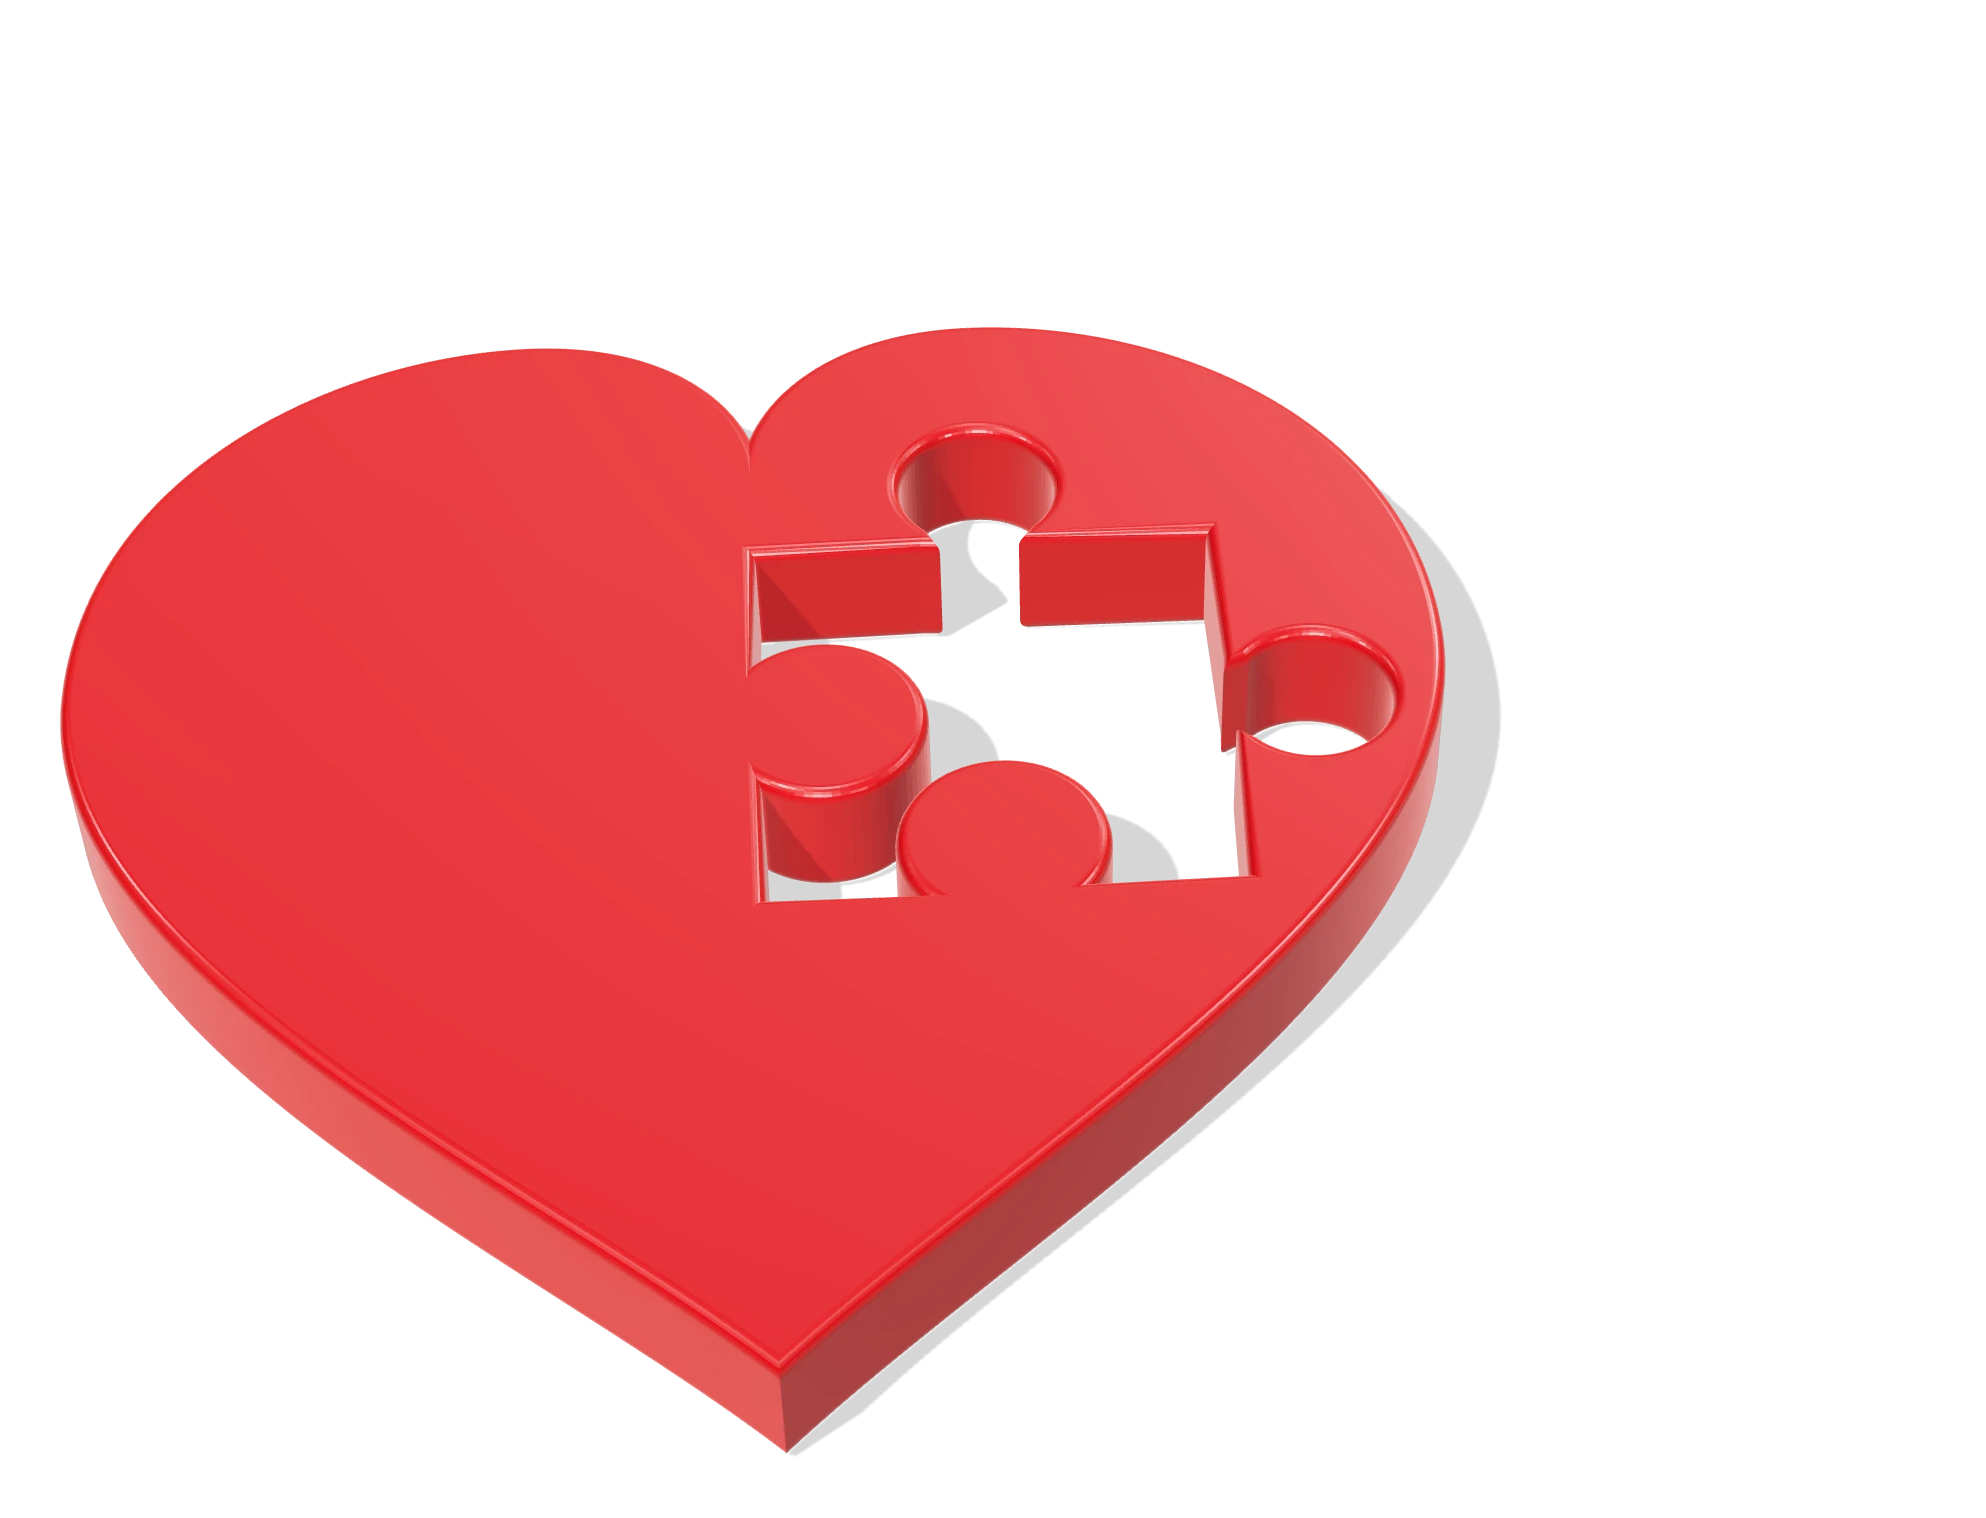
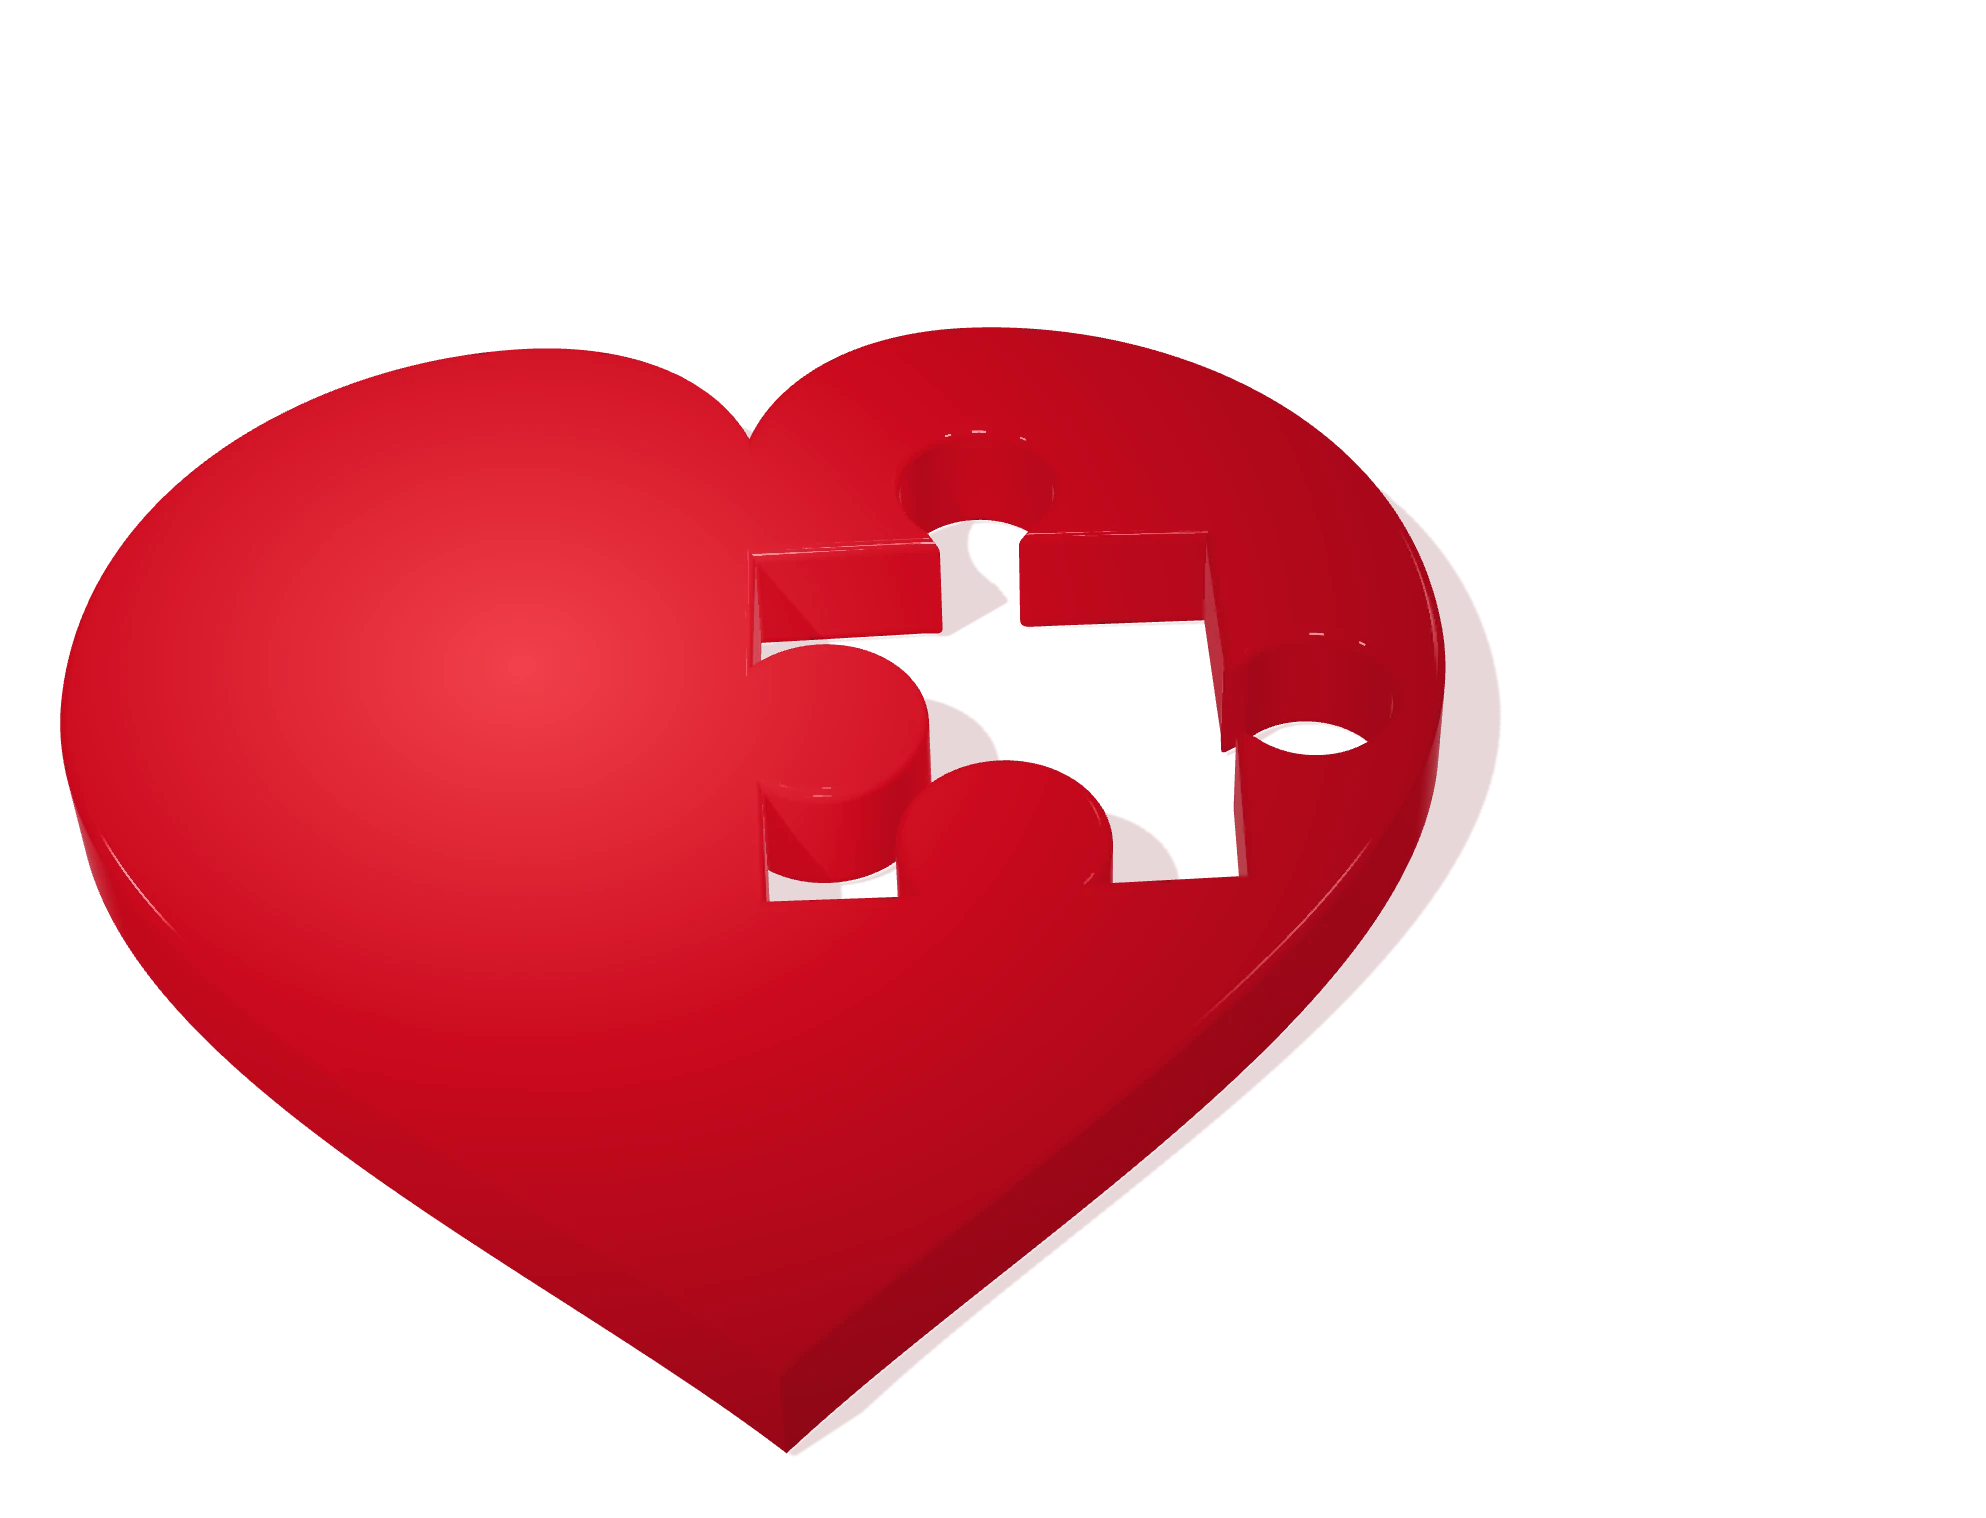
Hero: rich ruby heart, remove scroll hint
Claude-Session: https://claude.ai/code/session_01PkeobWmfrChtD7SqVdFZLv

Changed region(s): [[0.0312, 0.2167, 0.7492, 0.9598]]

diff --git a/index.html b/index.html
@@ -760,7 +760,7 @@ a{color:#4A5163}a:hover{color:#E63E3E}
 .pzh,.pzp,.pzo{object-fit:contain}
 .pzb{transform-origin:42% 60%}
 .pzh{filter:drop-shadow(0 30px 34px rgba(150,20,25,.16))}
-.pzf{-webkit-mask:var(--hm) center/contain no-repeat;mask:var(--hm) center/contain no-repeat;background:var(--fl) 0 0/170% auto;mix-blend-mode:soft-light;opacity:.95;animation:pzflow 14s linear infinite}
+.pzf{-webkit-mask:var(--hm) center/contain no-repeat;mask:var(--hm) center/contain no-repeat;background:var(--fl) 0 0/170% auto;mix-blend-mode:soft-light;opacity:.3;animation:pzflow 14s linear infinite}
 .pzp{opacity:0}
 .pzo{z-index:2;will-change:transform}
 .pzl:not(.fit) .pzo{animation:pzbob 3.2s ease-in-out infinite}
@@ -784,8 +784,6 @@ a{color:#4A5163}a:hover{color:#E63E3E}
 .leap.beat .ecgb{animation:ecgflash 1.4s ease-out}
 .leap.beat .ecgr{animation-duration:2.2s;opacity:.9;stroke-width:2.6}
 @keyframes ecgflash{0%{stroke:rgba(252,80,80,.7);stroke-width:2.4}100%{stroke:rgba(252,80,80,.13);stroke-width:1.5}}
-.pzl::after{content:"Scroll to complete";position:absolute;left:42%;bottom:-4%;transform:translateX(-50%);white-space:nowrap;font:500 11px/1 Inter,sans-serif;letter-spacing:.2em;text-transform:uppercase;color:#C7605A;opacity:.8;transition:opacity .4s}
-.pzl.fit::after{content:"Complete";opacity:.9}
 @media (prefers-reduced-motion:reduce){.pzo{display:none}.pzp{opacity:1!important}}
 
 @keyframes pzfloat{0%,22%{transform:none;filter:none}40%,62%{transform:translate(34%,7%) rotate(7deg) scale(1.06);filter:drop-shadow(18px 26px 22px rgba(90,20,20,.28))}80%,100%{transform:none;filter:none}}
